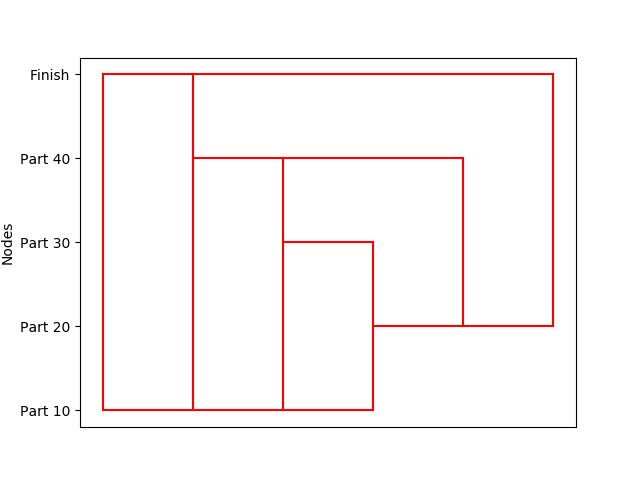
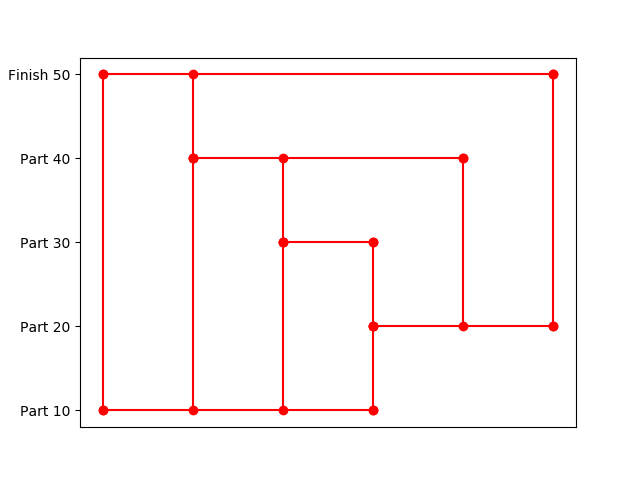
README updates, added image files examples, updated plot with end points

diff --git a/pyladder.py b/pyladder.py
@@ -98,7 +98,7 @@ class Pyladder():
         for coor in coors:
             # Debug: print the coordinate pairs for this line segment...
             # print(coor)
-            plt.plot([coor[0][0],coor[1][0]], [coor[0][1],coor[1][1]], color='red')
+            plt.plot([coor[0][0],coor[1][0]], [coor[0][1],coor[1][1]], '-o', color='red')
 
         # Set the vertical axis labels and display...
         plt.yticks(yTicks, graph_labels)

diff --git a/pyladder_file_example.py b/pyladder_file_example.py
@@ -45,7 +45,7 @@ graph_input_sample = {}
 # -----------------------------------------------------------------------
 # CALL METHOD 3 (comment out the other CALL METHODS if using this one)
 # Use this code when needing a hard-coded file name, usually to ease debugging
-str_File_Name = 'LINK29.DAT'
+str_File_Name = 'LINK27.DAT'
 # -----------------------------------------------------------------------
 
 max_node = 0

diff --git a/README.md b/README.md
@@ -1,5 +1,5 @@
 # pyladder
-A python library for planarity testing and rendering of ladder type graphs.  Built and tested with Python 3.7.0 32-bit
+A python library for planarity testing and rendering of ladder type graphs.  Built and tested with Python 3.7.0 32-bit on Windows 10 and Python 3.7.3 64-bit on Mac OS X.
 
 # Background:
 
@@ -9,7 +9,8 @@ Note that as this is a learning exercise, some of the style used will not adhere
 
 # Practical applications:
 
-#Programmable logic controllers:
+## Programmable logic controllers:
+
 The class can be used to display a ladder representing protective interlock logic.
 
 ## Gaming:
@@ -17,8 +18,6 @@ The class can be used to render a maze or connected points in space in real time
 
 ## Planarity testing:
 The input node list could represent a list of electronic parts and the output could then be used to create an circuit board etch where the requirement is that the connecting line segments cannot cross, for obvious reasons.
-
-Use LINK18.DAT to test a non-planar graph.
 
 ## Calling and usage convention 1:
 A python dictionary describing the ladder as follows:
@@ -36,14 +35,21 @@ Note that it is up to the client to create the dictionary.
 The above will generate the following visual:
 
 <p align="center">
-  <img alt="VS Code in action" src="https://i.postimg.cc/4d26rvPD/LINK1-DAT.png">
+  <img alt="VS Code in action" src="https://i.postimg.cc/J4WYpjP6/LINK1-DAT.png">
 </p>
 
 LINK17.DAT file will display generat the following visual:
 
 <p align="center">
-  <img alt="VS Code in action" src="https://i.postimg.cc/SxmKy9jj/LINK17-DAT.png">
+  <img alt="VS Code in action" src="https://i.postimg.cc/mrq8C9PS/LINK17-DAT.png">
 </p>
+
+LINK18.DAT is a non-planar ladder.  A 'Ladder is not planar' message will be shown.  The code will attempt to render the graph as much as possible without crossing connections (or line segments) although the correctness of the plot is not gauranteed.  LINK18.DAT will generate the following:
+
+<p align="center">
+  <img alt="VS Code in action" src="https://i.postimg.cc/8kqgNFwM/LINK18-DAT.png">
+</p>
+
 
 ## Calling and usage convention 2:
 
@@ -91,6 +97,7 @@ LINK18.DAT
 4. Comment out debug lines.  Presently the command line output is very verbose.  Status = Oustanding
 5. File LINK36.DAT is not rendering correctly
 6. File LINK20.DAT is not rendering correctly
+8. File LINK30.DAT is not rendering correctly
 
 
 
